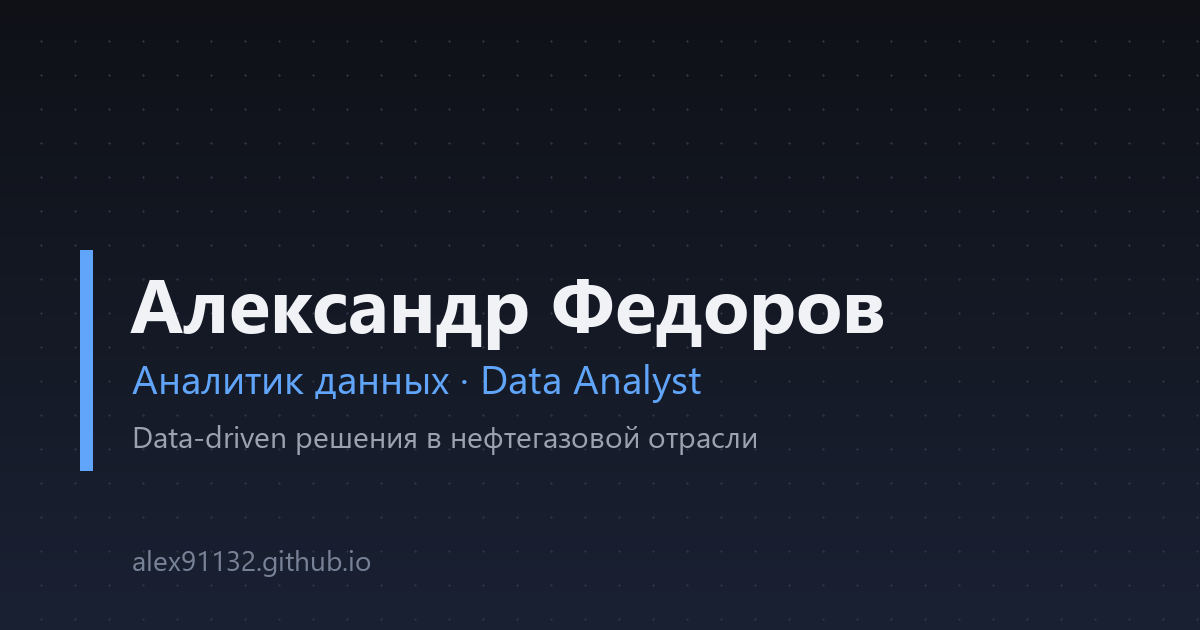
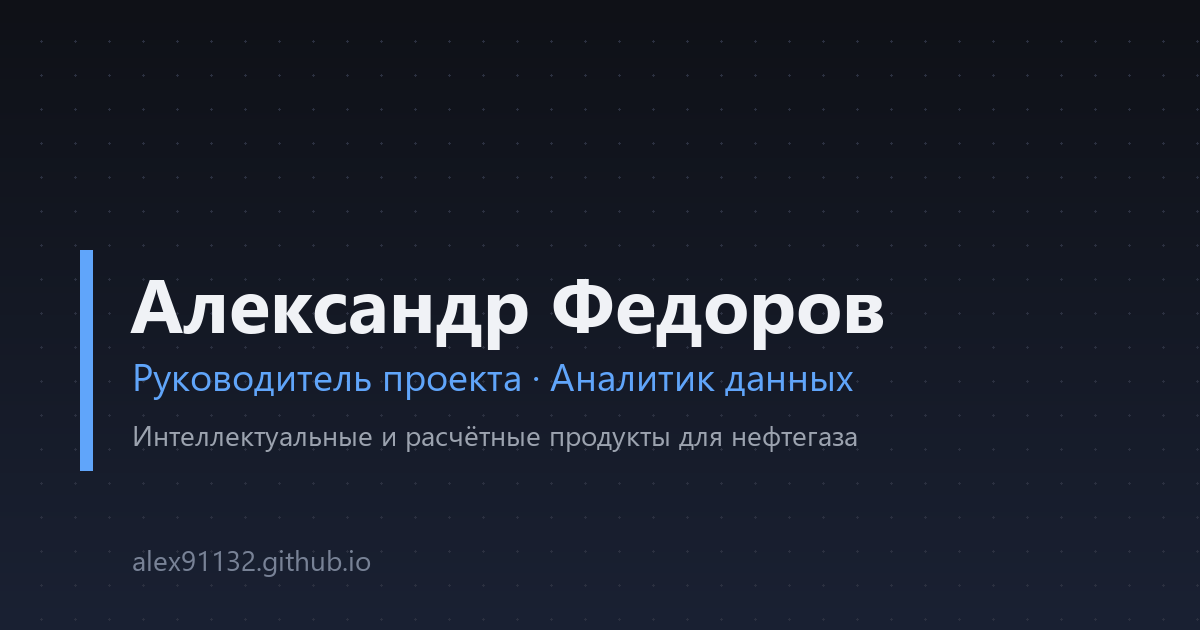
Роль руководителя проекта: ГидроОптима и расчётное ядро (заказчик обезличен)

Changed region(s): [[0.0925, 0.573, 0.7092, 0.6333], [0.1233, 0.6635, 0.7092, 0.7238]]

diff --git a/index.html b/index.html
@@ -4,15 +4,15 @@
   <meta charset="UTF-8">
   <meta name="viewport" content="width=device-width, initial-scale=1.0">
   <title>Александр Федоров — аналитик данных</title>
-  <meta name="description" content="Аналитик данных (Data Analyst) с опытом внедрения data-driven решений в нефтегазовой отрасли. Python, SQL, ML-валидация, ETL.">
+  <meta name="description" content="Руководитель проекта и аналитик данных. Интеллектуальные и расчётные продукты для нефтегазовой отрасли. Python, SQL, ML-валидация, ETL.">
 
   <!-- Иконка вкладки -->
   <link rel="icon" href="assets/favicon.svg" type="image/svg+xml">
 
   <!-- Превью-карточка для соцсетей (Telegram, LinkedIn, VK) -->
   <meta property="og:type" content="website">
-  <meta property="og:title" content="Александр Федоров — аналитик данных">
-  <meta property="og:description" content="Data-driven решения в нефтегазовой отрасли. Python, SQL, ML-валидация, ETL.">
+  <meta property="og:title" content="Александр Федоров — руководитель проекта, аналитик данных">
+  <meta property="og:description" content="Интеллектуальные и расчётные продукты для нефтегазовой отрасли. Python, SQL, ML-валидация, ETL.">
   <meta property="og:image" content="https://alex91132.github.io/assets/og.png">
   <meta property="og:url" content="https://alex91132.github.io">
   <meta name="twitter:card" content="summary_large_image">
@@ -55,9 +55,9 @@
         <h1>Александр Федоров</h1>
       </div>
       <p class="lead">
-        Аналитик данных (Data Analyst). Внедряю data-driven решения в нефтегазовой
-        отрасли, до этого 10+ лет был инженером-нефтяником. Люблю превращать рутинные
-        процессы в работающие инструменты.
+        Руководитель проекта и аналитик данных. Веду разработку интеллектуальных и
+        расчётных продуктов для нефтегазовой отрасли, до этого 10+ лет был
+        инженером-нефтяником. Люблю превращать рутинные процессы в работающие инструменты.
       </p>
 
       <!-- Контакты. Email показан текстом — его видно и можно скопировать,
@@ -113,18 +113,19 @@
 
       <div class="exp">
         <div class="period">Февраль 2025 — настоящее время</div>
-        <h3>Аналитик данных</h3>
+        <h3>Руководитель проекта / аналитик данных</h3>
         <p class="company">Oil and Gas Production Tools</p>
         <p>
-          Связующее звено между инженерами-нефтяниками и ML-командой при разработке
-          интеллектуальных цифровых помощников для отрасли.
+          Веду продуктовые направления по разработке интеллектуальных цифровых помощников
+          и расчётных модулей для нефтегазовой отрасли (подробнее — в разделе
+          <a href="#projects">Проекты</a>).
         </p>
         <ul>
-          <li>Собираю требования у экспертов и перевожу их в ТЗ для ML-команды.</li>
-          <li>Провожу EDA: чищу датасеты, работаю с пропусками, аномалиями, дисбалансом классов.</li>
-          <li>Строю пайплайны автоматической валидации моделей и дашборды мониторинга метрик.</li>
+          <li>Руковожу кросс-функциональной командой: аналитики, backend (Python), frontend (React), QA, DevOps.</li>
+          <li>Собираю и согласую требования с предметными экспертами, формирую методику и ТЗ.</li>
+          <li>Декомпозирую работы на этапы и инкременты, планирую сроки, отвечаю за приёмку результатов.</li>
+          <li>Провожу EDA, валидацию моделей, настраиваю метрики качества и мониторинг.</li>
           <li>Сократил обработку разнородных отчётов с часов до 2–5 минут (точность &gt;92%).</li>
-          <li>Уменьшил время ручной проверки валидации на 60%, повысил Recall критичных осложнений на 15%.</li>
         </ul>
       </div>
 
@@ -176,19 +177,67 @@
       </p>
     </section>
 
-    <!-- ПРОЕКТЫ (пока без подробностей) -->
+    <!-- ПРОЕКТЫ -->
     <section id="projects">
       <h2>Проекты</h2>
-      <p style="color:var(--muted);">Pet-проекты — подробные описания и ссылки добавлю позже.</p>
+      <p style="color:var(--muted);">Направления, которые веду как руководитель проекта.</p>
 
-      <div class="card">
-        <h3>REST API на FastAPI</h3>
-        <p>Сервис на FastAPI для pet-проекта. Описание скоро.</p>
+      <!-- Проект 1: ГидроОптима -->
+      <div class="project">
+        <span class="role">Руководитель проекта</span>
+        <h3>ГидроОптима — интеллектуальный цифровой помощник</h3>
+        <p class="summary">
+          Система поддержки принятия решений по фонду скважин: анализирует данные,
+          выявляет осложнения и предлагает обоснованные мероприятия инженеру.
+        </p>
+        <ul>
+          <li>Гибридная архитектура: детерминированное дерево решений + LLM/RAG и запросы к данным (SQL).</li>
+          <li>Прозрачная трассировка: почему предложено именно это мероприятие.</li>
+          <li>Моя роль: постановка задачи, методология, координация ML-инженеров, backend и предметных экспертов.</li>
+        </ul>
       </div>
 
+      <!-- Проект 2: расчётные модули (заказчик обезличен) -->
+      <div class="project">
+        <span class="role">Руководитель проекта</span>
+        <h3>Расчётное ядро для добывающих активов</h3>
+        <p class="nda">Заказчик — крупная нефтегазовая компания (под NDA).</p>
+        <p class="summary">
+          Набор расчётных микросервисов для инженерного анализа скважин: физика пласта и
+          ствола «под капотом», результаты сверяются с эталонным ПО. Два актива:
+        </p>
+
+        <div class="sub">⛽ Газовый актив</div>
+        <ul>
+          <li>PVT-модуль: свойства газа из компонентного состава (z-фактор, вязкость, Bg).</li>
+          <li>Приток (IPR) и расчёт потока в стволе (VLP) с многофазными корреляциями.</li>
+          <li>Материальный баланс с аквифером, диагностика p/z и адаптация запасов на историю.</li>
+        </ul>
+
+        <div class="sub">🛢 Нефтяные скважины с ОРЭ (два пласта: пакер + клапан + ЭЦН)</div>
+        <ul>
+          <li>Единый PVT-модуль (нефть / газ / вода), IPR по каждому пласту.</li>
+          <li>VLP с моделью клапана ОРЭ и насоса ЭЦН, узловой анализ (поиск рабочей точки).</li>
+          <li>Диагностика режима и разнесение добычи по пластам, подбор оптимального режима.</li>
+          <li>Материальный баланс, деклайн-анализ и расчёт КИН по объектам.</li>
+        </ul>
+
+        <ul style="margin-top:12px;">
+          <li><strong>Роль руководителя:</strong> сбор и согласование требований (User Stories),
+              методология расчётов, декомпозиция на этапы/инкременты, координация команды
+              (аналитики, backend Python, frontend React, QA, DevOps, дизайнер), приёмка результатов.</li>
+        </ul>
+      </div>
+
+      <!-- Pet-проекты -->
+      <h3 style="margin-top:28px;">Pet-проекты</h3>
+      <div class="card">
+        <h3>REST API на FastAPI</h3>
+        <p>Сервис на FastAPI для pet-проекта. Описание и ссылка на репозиторий — скоро.</p>
+      </div>
       <div class="card">
         <h3>Чат-бот для работы с документами (RAG/LLM)</h3>
-        <p>Бот, отвечающий на вопросы по документам компании. Описание скоро.</p>
+        <p>Бот, отвечающий на вопросы по документам. Описание и ссылка на репозиторий — скоро.</p>
       </div>
     </section>
 

diff --git a/styles.css b/styles.css
@@ -266,3 +266,29 @@ blockquote {
 .edu-card .year { font-size: 13px; color: var(--accent); font-weight: 700; }
 .edu-card .name { font-size: 16px; font-weight: 600; margin-top: 2px; }
 .edu-card .place { font-size: 14px; color: var(--muted); margin-top: 2px; }
+
+/* --- Крупные карточки проектов (роль руководителя) --- */
+.project {
+  background: var(--card);
+  border: 1px solid var(--border);
+  border-left: 4px solid var(--accent);
+  border-radius: 12px;
+  padding: 22px 24px;
+  margin-bottom: 18px;
+}
+.project h3 { margin-top: 0; margin-bottom: 4px; }
+.project .role {
+  display: inline-block;
+  font-size: 13px;
+  font-weight: 600;
+  color: var(--accent);
+  border: 1px solid var(--accent);
+  border-radius: 999px;
+  padding: 2px 10px;
+  margin-bottom: 10px;
+}
+.project .summary { color: var(--text); margin: 4px 0 10px; }
+.project ul { margin: 8px 0 0; padding-left: 20px; }
+.project ul li { margin-bottom: 5px; font-size: 16px; }
+.project .sub { font-weight: 600; margin-top: 12px; }
+.project .nda { color: var(--muted); font-size: 14px; font-style: italic; }
